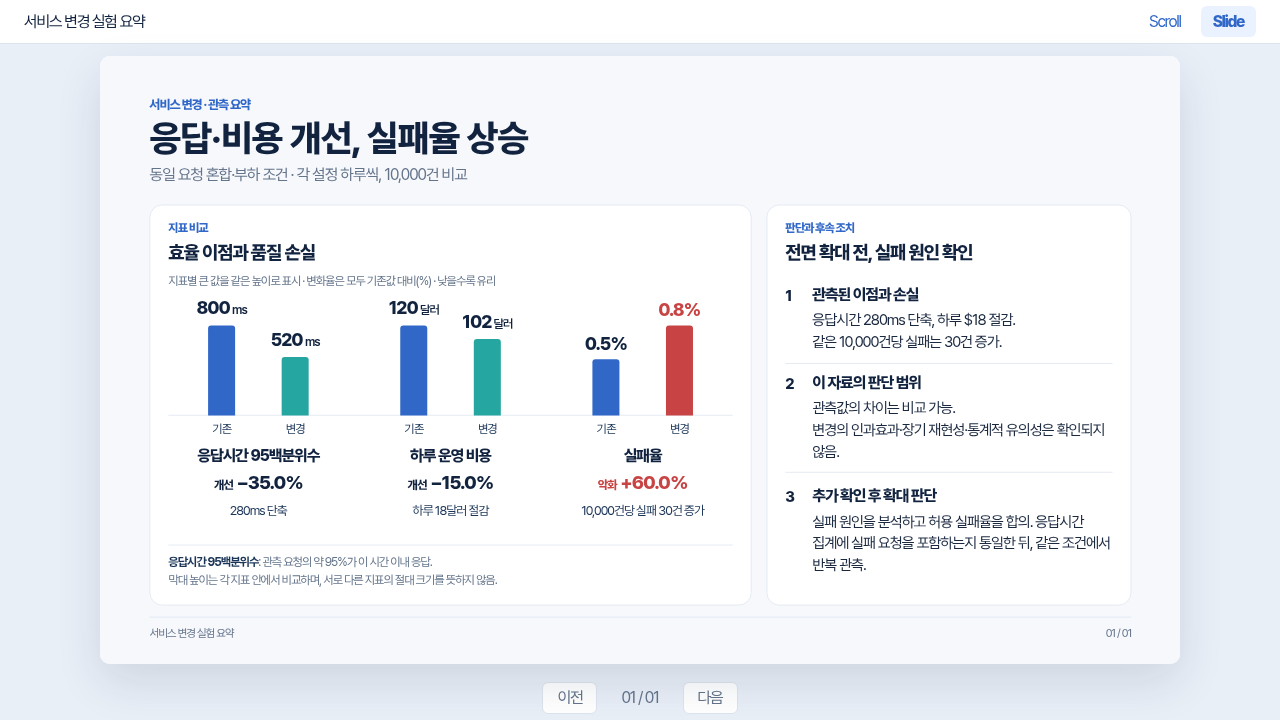
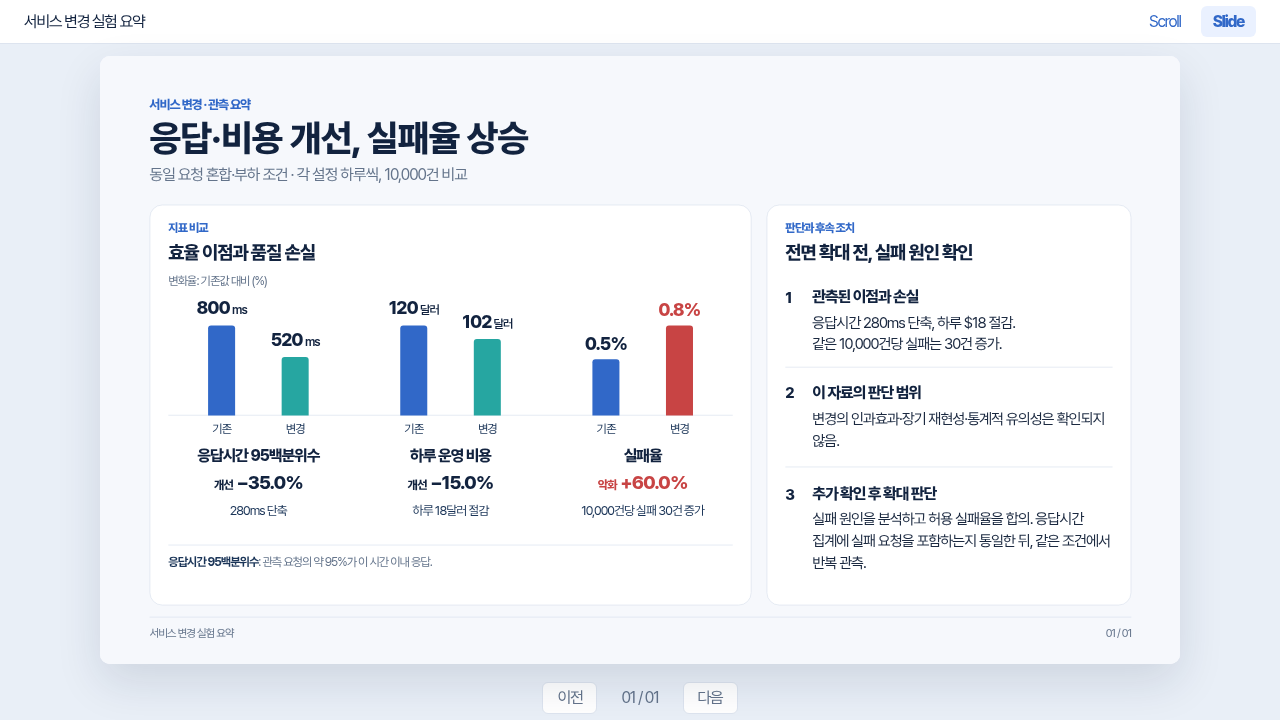
docs: omit self-evident slide commentary and define concise explanation policy

diff --git a/examples/service-summary/content.html b/examples/service-summary/content.html
@@ -3,13 +3,13 @@
 <body><main class="report" id="summary">
 <header><div class="kicker">서비스 변경 · 관측 요약</div><h1>응답·비용 개선, 실패율 상승</h1><p class="subtitle">동일 요청 혼합·부하 조건 · 각 설정 하루씩, 10,000건 비교</p></header>
 <div class="report-body">
-<section class="panel impact" aria-labelledby="impact-title"><div class="panel-label">지표 비교</div><h2 id="impact-title">효율 이점과 품질 손실</h2><p class="chart-note">지표별 큰 값을 같은 높이로 표시 · 변화율은 모두 기존값 대비(%) · 낮을수록 유리</p>
+<section class="panel impact" aria-labelledby="impact-title"><div class="panel-label">지표 비교</div><h2 id="impact-title">효율 이점과 품질 손실</h2><p class="chart-note">변화율: 기존값 대비 (%)</p>
 <div class="chart"><div class="groups"><div class="gridlines" aria-hidden="true"></div><div id="metrics"></div></div></div>
-<p class="definition"><b>응답시간 95백분위수</b>: 관측 요청의 약 95%가 이 시간 이내 응답.<br>막대 높이는 각 지표 안에서 비교하며, 서로 다른 지표의 절대 크기를 뜻하지 않음.</p>
+<p class="definition"><b>응답시간 95백분위수</b>: 관측 요청의 약 95%가 이 시간 이내 응답.</p>
 </section>
 <section class="panel action" aria-labelledby="action-title"><div class="panel-label">판단과 후속 조치</div><h2 id="action-title">전면 확대 전, 실패 원인 확인</h2><div class="actions">
 <div class="action-item"><span class="number">1</span><div><h3>관측된 이점과 손실</h3><p>응답시간 280ms 단축, 하루 $18 절감.<br>같은 10,000건당 실패는 30건 증가.</p></div></div>
-<div class="action-item"><span class="number">2</span><div><h3>이 자료의 판단 범위</h3><p>관측값의 차이는 비교 가능.<br>변경의 인과효과·장기 재현성·통계적 유의성은 확인되지 않음.</p></div></div>
+<div class="action-item"><span class="number">2</span><div><h3>이 자료의 판단 범위</h3><p>변경의 인과효과·장기 재현성·통계적 유의성은 확인되지 않음.</p></div></div>
 <div class="action-item"><span class="number">3</span><div><h3>추가 확인 후 확대 판단</h3><p>실패 원인을 분석하고 허용 실패율을 합의. 응답시간 집계에 실패 요청을 포함하는지 통일한 뒤, 같은 조건에서 반복 관측.</p></div></div>
 </div></section>
 </div><footer><span>서비스 변경 실험 요약</span><span>01 / 01</span></footer>

diff --git a/examples/service-summary/verify.py b/examples/service-summary/verify.py
@@ -76,7 +76,7 @@ with sync_playwright() as p:
    check(key+' local WOFF2',all(any(font in r['url'] and r['status']==200 for r in requests) for font in ['PretendardVariable.woff2']),requests)
    check(key+' no direction arrows or numeric y-axis',f.locator('.trend-arrow,.axis').count()==0)
    check(key+' red deterioration',f.locator('.worse .fill.after').evaluate("e=>getComputedStyle(e).backgroundColor")=='rgb(200, 68, 68)')
-   check(key+' no authoring meta visible',not any(t in data['text'] for t in ['가상','실제 자료 아님','실측 성과','관측한 예시']))
+   check(key+' no authoring meta visible',not any(t in data['text'] for t in ['가상','실제 자료 아님','실측 성과','관측한 예시','막대 높이는','절대 크기를 뜻하지','큰 값을 같은 높이','관측값의 차이는 비교 가능']))
    check(key+' no errors',not errors and all(r['status']<400 for r in requests),errors)
    check(key+' spacing',not data['spacing'],data['spacing'])
    check(key+' text inside panel padding/canvas',not data['clipping'],data['clipping'])
@@ -86,7 +86,7 @@ with sync_playwright() as p:
    check(key+' panel/footer clearance',max(r['bottom'] for r in data['panels'])+14<data['footer']['y'])
    check(key+' role colors',all(l=={'label':'rgb(49, 104, 200)','title':'rgb(18, 35, 63)','labelCount':1} for l in data['labels']))
    check(key+' consistent relative change units',f.locator('.delta').all_inner_texts()==['개선−35.0%','개선−15.0%','악화+60.0%'] and '퍼센트포인트' not in data['text'])
-   check(key+' required values',all(s in data['text'] for s in ['800','520','120','102','0.5','0.8','35.0%','15.0%','+60.0%','10,000건당 실패 30건 증가','변화율은 모두 기존값 대비(%)','10,000','95%','통계적 유의성']))
+   check(key+' required values',all(s in data['text'] for s in ['800','520','120','102','0.5','0.8','35.0%','15.0%','+60.0%','10,000건당 실패 30건 증가','변화율: 기존값 대비 (%)','10,000','95%','통계적 유의성']))
    outer=page.evaluate('''()=>({width:innerWidth,scrollWidth:document.documentElement.scrollWidth,height:innerHeight,scrollHeight:document.documentElement.scrollHeight,frame:(()=>{const r=document.querySelector('.frame').getBoundingClientRect();return{x:r.x,y:r.y,right:r.right,bottom:r.bottom,width:r.width,height:r.height}})(),spacing:[...document.querySelectorAll('a,button,span')].map(e=>getComputedStyle(e).letterSpacing)})''')
    check(key+' outer layout',outer['scrollWidth']==w and outer['frame']['right']<=w and (mode!='slides' or outer['frame']['bottom']<=h-44),outer)
    check(key+' navigation spacing',all(abs(float(s[:-2])+4/3)<.001 for s in outer['spacing']))

diff --git a/docs/user-screen-review/README.md b/docs/user-screen-review/README.md
@@ -14,3 +14,5 @@
 과거 승인 JSON과 최종 재현 스냅샷은 변경하지 않았다. 문서 검사는 user-design-amendment.json에 기록한 정확한 변경 전후 해시만 허용한 뒤 과거 본문을 기존 승인 해시와 비교한다. 사용자 변경을 과거 승인으로 위장하지 않는다.
 
 최신 사용자 검토: 주요 증감값은 모두 기존 대비 변화율(−35.0%, −15.0%, +60.0%)로 통일했다. 실패율의 +0.3퍼센트포인트는 주요 표시에서 제외하고 원래 비율0.5%/0.8% 및 원시 건수 차이를 분리해 읽게 했다. 산술 의미는 동일하며 퍼센트포인트를 상대%로 바꿔 쓴 것이 아니다.
+
+자명한 설명 제거: 막대 높이 비교법·큰 값의 높이 설명·“관측값의 차이는 비교 가능”을 삭제했다. 화면에는 해석에 필요한 최소 기준 라벨과 처음 다루는 용어 정의만 남긴다. 이 원칙과 생략 예시는 DESIGN_SYSTEM의 “자명한 설명과 제작 메타 문구 생략”에 명시했다.
